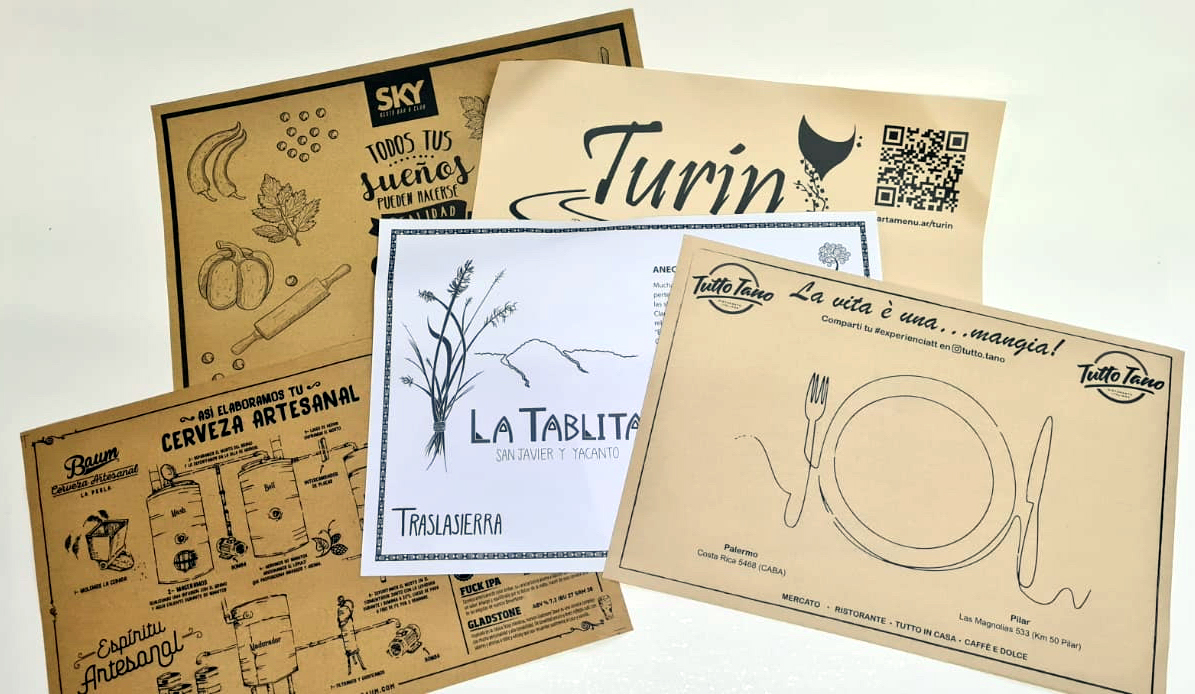
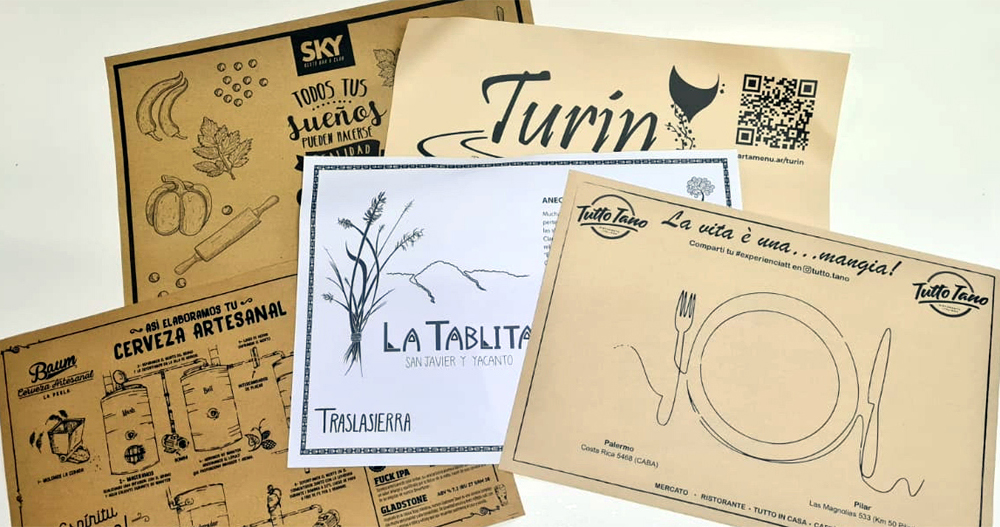
Imagenes nuevo tamaño

diff --git a/html/porfolio.html b/html/porfolio.html
@@ -2,7 +2,7 @@
 <html lang="es">
 
 <head>
-    
+
     <meta charset="UTF-8">
     <meta name="viewport" content="width=device-width, initial-scale=1.0">
     <title>Grafica ABC</title>
@@ -16,6 +16,7 @@
     <script src="https://kit.fontawesome.com/22284035c9.js" crossorigin="anonymous"></script>
 
 </head>
+
 <body>
     <header>
 
@@ -56,6 +57,76 @@
     <main>
         <h1>Portfolio</h1>
 
+
+        <div class="row row-cols-1 row-cols-md-2 g-4">
+            <div class="col">
+                <div class="card">
+                    <img class="imgPortfolio" src="../img/01.jpg" alt="Papeleria Comercial">
+                    <div class="card-body">
+                        <h5 class="card-title">Papeleria Comercial</h5>
+                    </div>
+                </div>
+            </div>
+            <div class="col">
+                <div class="card">
+                    <img class="imgPortfolio" src="../img/02.jpg" alt="Packaging">
+                    <div class="card-body">
+                        <h5 class="card-title">Packaging</h5>
+                    </div>
+                </div>
+            </div>
+            <div class="col">
+                <div class="card">
+                    <img class="imgPortfolio" src="../img/03.jpg" alt="Individuales">
+                    <div class="card-body">
+                        <h5 class="card-title">Individuales</h5>
+                    </div>
+                </div>
+            </div>
+            <div class="col">
+                <div class="card">
+                    <img class="imgPortfolio" src="../img/04.jpg" alt="Tarjetas">
+                    <div class="card-body">
+                        <h5 class="card-title">Tarjetas</h5>
+                    </div>
+                </div>
+            </div>
+            <div class="col">
+                <div class="card">
+                    <img class="imgPortfolio" src="../img/05.jpg" alt="Libros y Encuadernados">
+                    <div class="card-body">
+                        <h5 class="card-title">Libros y Encuadernados</h5>
+                    </div>
+                </div>
+            </div>
+            <div class="col">
+                <div class="card">
+                    <img class="imgPortfolio" src="../img/07.jpg" alt="Folletos">
+                    <div class="card-body">
+                        <h5 class="card-title">Folletos</h5>
+                    </div>
+                </div>
+            </div>
+            <div class="col">
+                <div class="card">
+                    <img class="imgPortfolio" src="../img/08.jpg" alt="Etiquetas">
+                    <div class="card-body">
+                        <h5 class="card-title">Etiquetas</h5>
+                    </div>
+                </div>
+            </div>
+            <div class="col">
+                <div class="card">
+                    <img class="imgPortfolio" src="../img/06.jpg" alt="Sobres">
+                    <div class="card-body">
+                        <h5 class="card-title">Sobres</h5>
+                    </div>
+                </div>
+            </div>
+        </div>
+
+
+        <!--           
         <section class="sectionPortfolio">
 
             <div class="contenedorPortfolio">
@@ -107,13 +178,13 @@
                 <p>Etiquetas</p>
             </div>
 
-        </section>
+        </section> -->
 
     </main>
 
-     <!-- FOOTER -->
+    <!-- FOOTER -->
 
-     <footer>
+    <footer>
         <div class="row">
 
             <div class="col-xl-4 col-md-6 col-sm-12 text-center">

diff --git a/css/estilos.css b/css/estilos.css
@@ -108,11 +108,25 @@ h2 {
 
 /* Portfolio */
 
+.imgPortfolio {
+    display: block;
+    width: 100%;
+    height: 0%;
+}
+
+.card-title {
+text-align: center;
+}
+
+.card {
+    box-shadow: 0px 0px 15px #8f8989;
+}
+
 #portfolioRigth {
     margin-left: 200px;
 }
 
-.sectionPortfolio {
+/* .sectionPortfolio {
     height: auto;
     width: 100%;
     display: flex;
@@ -128,22 +142,16 @@ h2 {
     height: auto;
     display: block;
     margin: 20px 10px 10px 10px;
-}
+} */
 
-.imgPortfolio {
-    display: block;
-    width: 100%;
-    height: 80%;
-}
-
-.contenedorPortfolio p {
+/* .contenedorPortfolio p {
     background-color: solid rgb(5, 5, 100);
     font-family: Verdana, Geneva, Tahoma, sans-serif;
     text-align: center;
     font-weight: bold;
     font-size: 16px;
     text-transform: uppercase;
-}
+} */
 
 /* CONTACTO */
 
